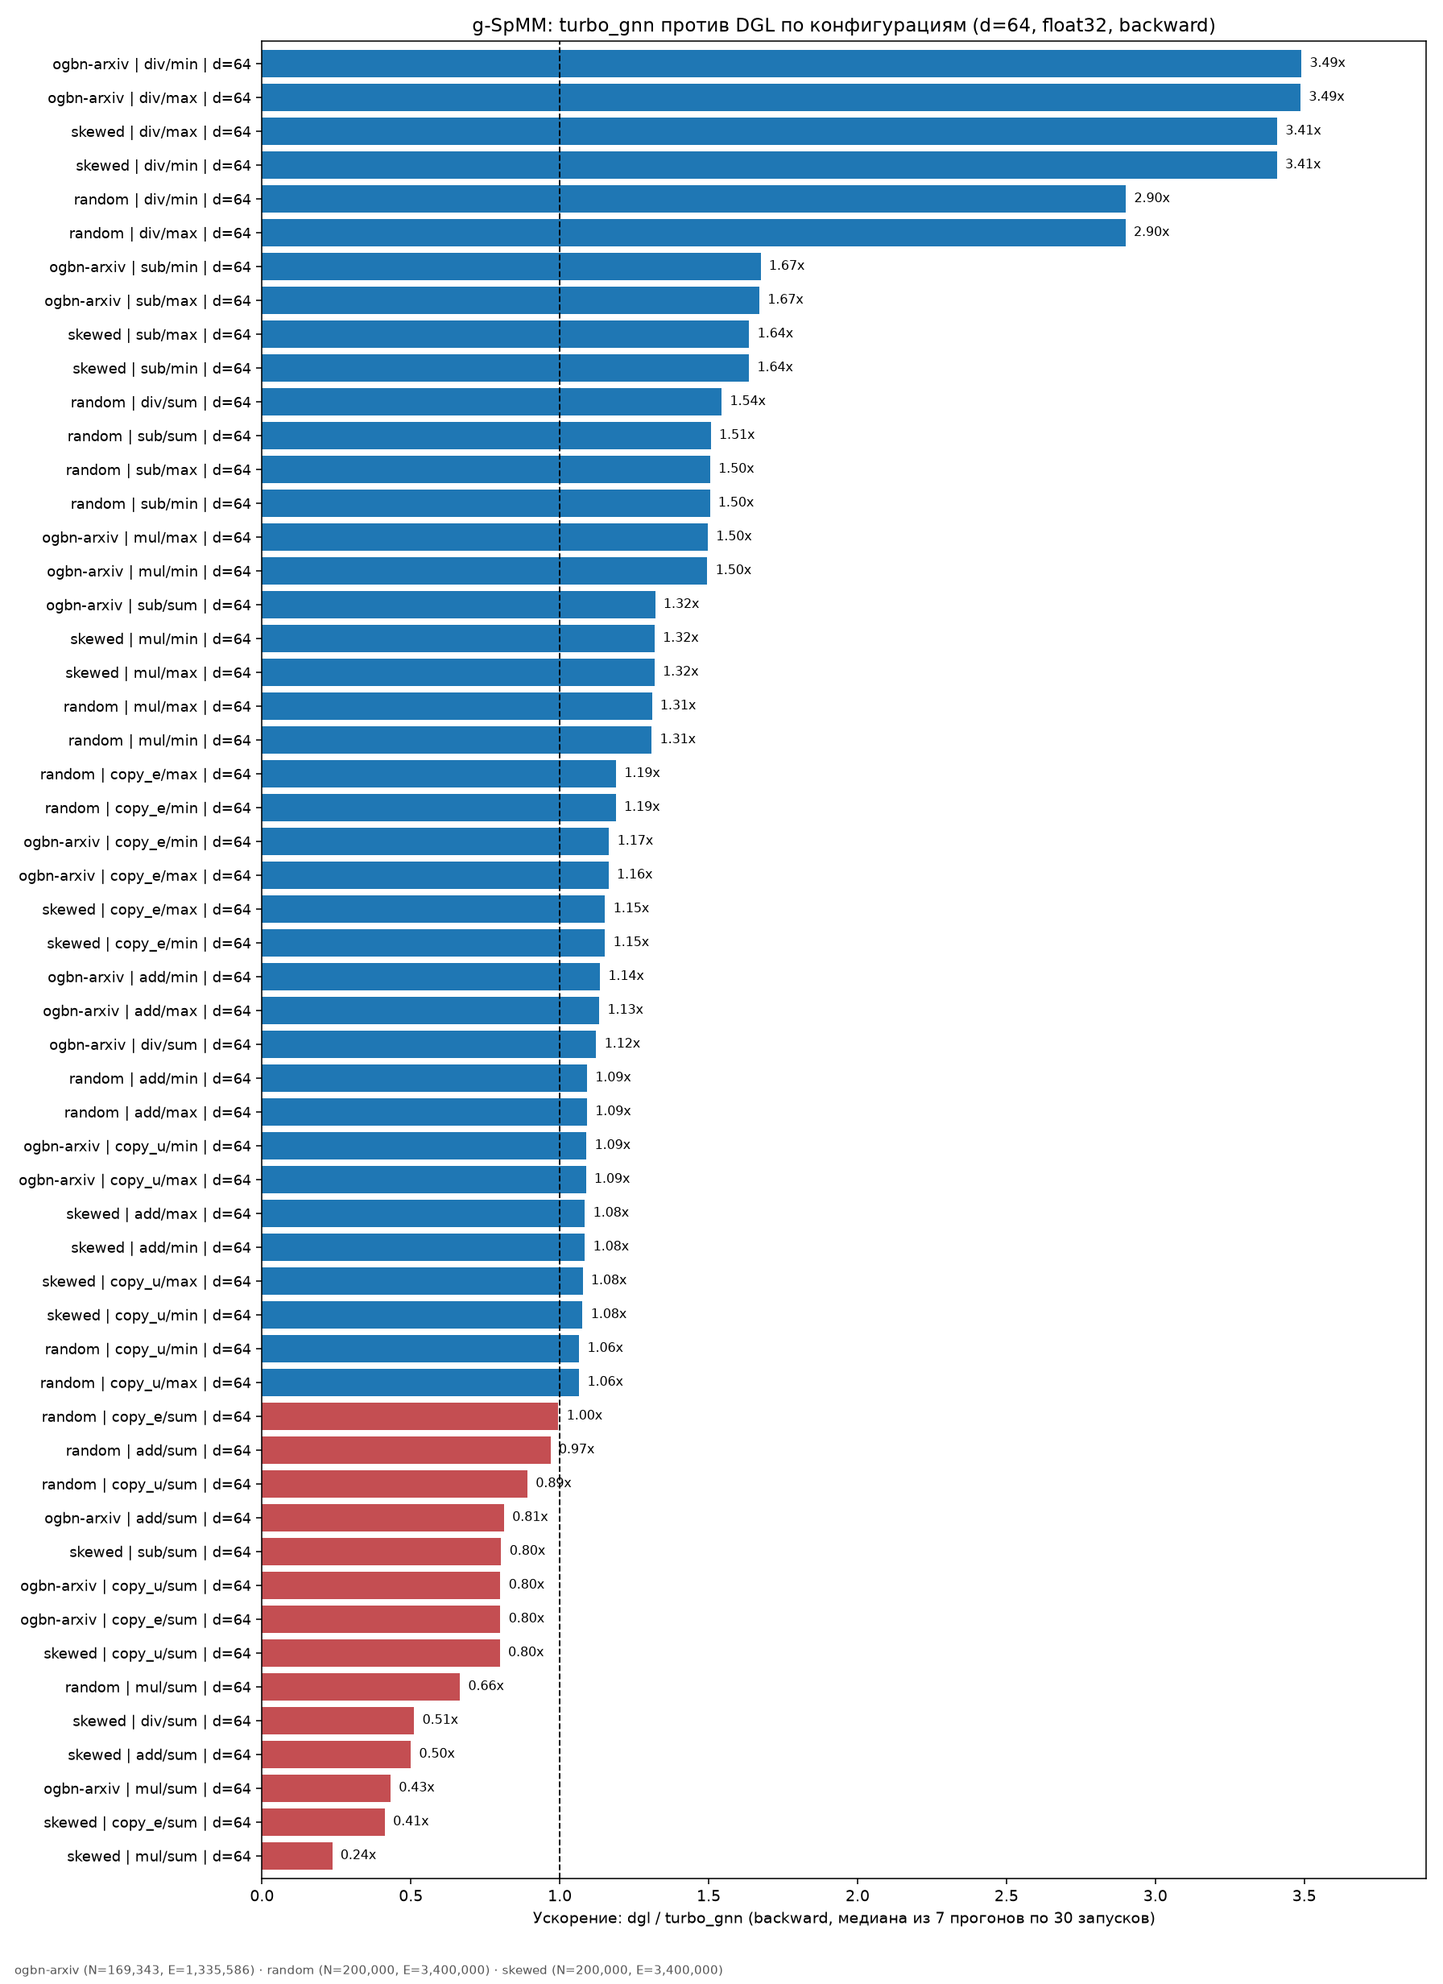
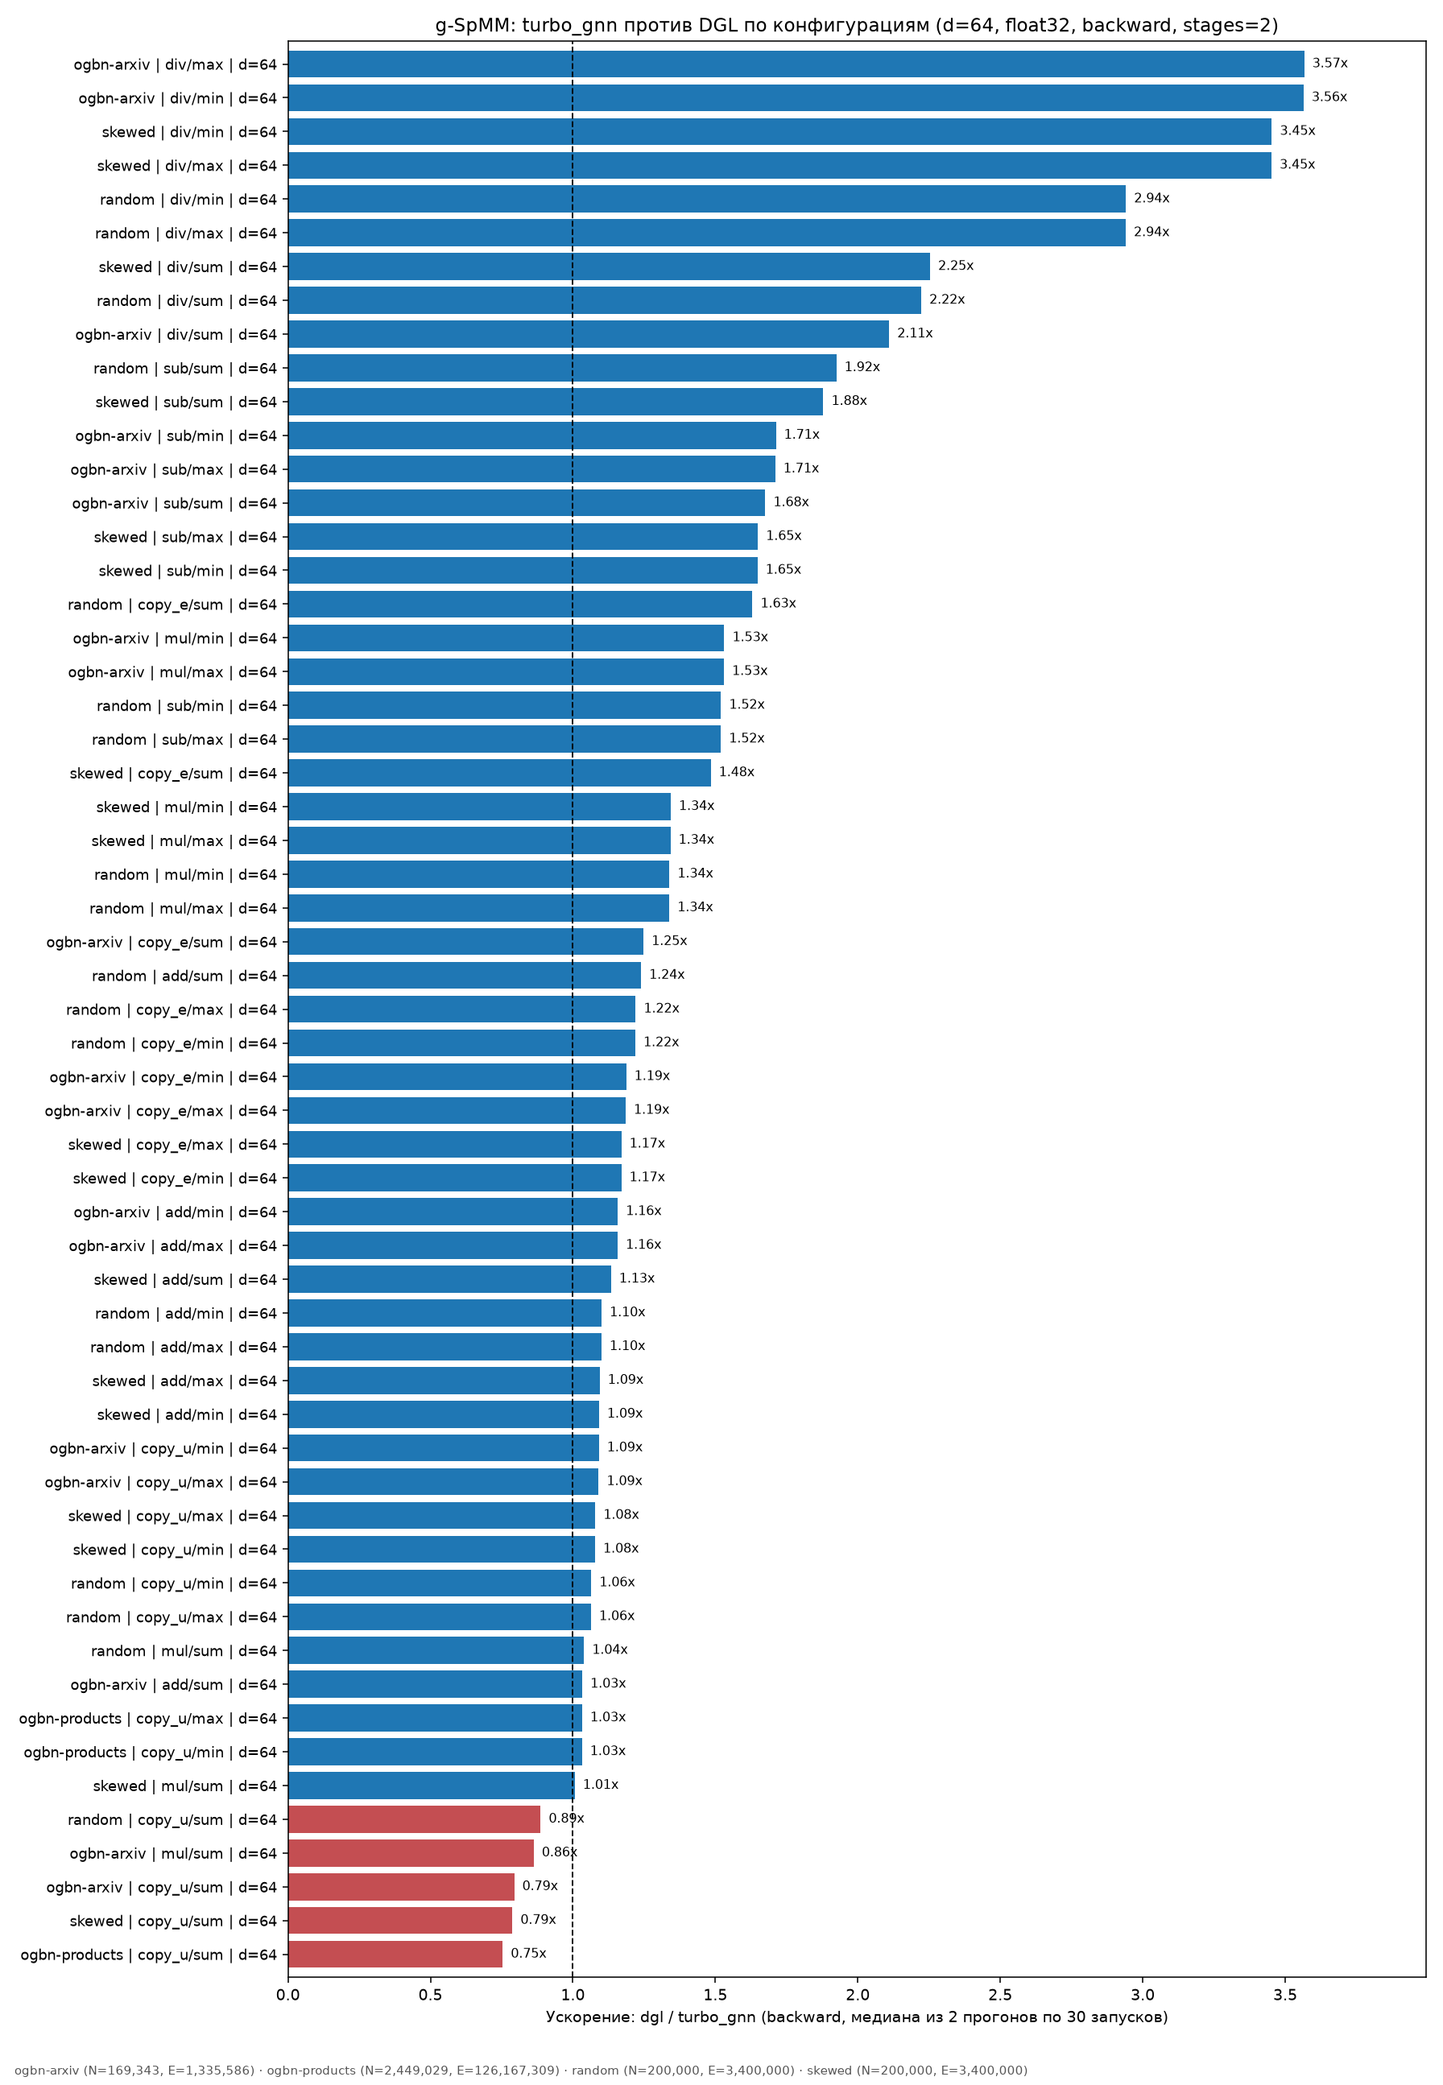
RESULTS: the turbo-vs-DGL charts, rebuilt over every configuration
The charts in this directory measured code whose backward has since been
rewritten, and they could not be rebuilt while DGL was assumed to be
unavailable here.  It is available: DGL 2.4.0+cu121 has a cp312 wheel, and
run.sh already took the DGL and turbo interpreters separately, so DGL runs
under its own python 3.12 while turbo stays on the 3.14 venv whose partial
extension is the one that builds for this T4.

So all 24 are redrawn from one sweep -- {float32, float16} x stages
{0,1,2,4} x {forward, backward, forward+backward} -- and each now covers
all four graphs at 57 cells, ogbn-products included: 61.8M raw edges,
126.2M with both directions and self-loops, copy_u only at d=64, since an
[E, d] operand at that size does not fit in 15 GB.  Twelve keep their old
names so the links in the text still resolve; stages 1 and 4 are new, and
the five that had no counterpart (the fp32_forward_stagesN set and
fp32_forward_4graphs) are gone -- every chart is a four-graph chart now,
and the stage sweep is a row of the matrix.

The headline: fp16 backward was 0.68x with 30 of 36 cells losing to DGL,
and is 1.30x with 15 of 57.  fp32 backward 1.31x -> 1.47x, fp16 forward
2.00x -> 2.52x.  Those two runs differ in more than the code (two graphs
vs four, seven repeats vs two, no device warm-up vs one), so the clean
code-to-code comparison stays the turbo-vs-turbo sweep.

Pipelining loses in all eight configurations by geomean, and the count of
[…]

Changed region(s): [[0.0, 0.0, 0.9375, 1.0], [0.875, 0.9375, 0.9062, 0.9688]]

diff --git a/dev/scanhex12/RESULTS.md b/dev/scanhex12/RESULTS.md
@@ -1,73 +1,94 @@
 # g-SpMM: turbo_gnn против DGL
 
-Tesla T4, d=64, медиана из 7 прогонов по 30 запусков, CUDA events на обеих сторонах.
-`ogbn-arxiv` (N=169 343, E=1 335 586) и `random` (N=200 000, E=3 400 000).
-turbo — через `turbo_gnn.gspmm`, DGL — через `dgl.ops.*`, обе стороны на побитово
-одинаковых данных. Прогон и методика: [gspmm_vs_dgl/](gspmm_vs_dgl/).
+Tesla T4, d=64, медиана из 2 прогонов по 30 запусков, CUDA events на обеих
+сторонах, побитово одинаковые данные. Четыре графа в каждой картинке, 57 клеток:
 
-В скобках — сколько клеток из 18×графов оказались быстрее у DGL.
-
-## fp32, без пайплайнинга
-
-| kind | geomean | медиана | мин | проигр. | картинка | данные |
-|---|---|---|---|---|---|---|
-| forward | **1.89x** | 1.92x | 1.10x | 0/36 | [fp32_forward.png](fp32_forward.png) | [arxiv](gspmm_vs_dgl/results/results_ogbn-arxiv_float32_bwd.json) · [random](gspmm_vs_dgl/results/results_random_float32_bwd.json) |
-| **backward** | **1.31x** | 1.18x | 0.44x | 5/36 | [fp32_backward.png](fp32_backward.png) | те же |
-| fwd+bwd | 1.52x | 1.48x | 0.64x | 2/36 | [fp32_fwd_bwd.png](fp32_fwd_bwd.png) | те же |
-
-## fp16, без пайплайнинга
-
-| kind | geomean | медиана | мин | проигр. | картинка | данные |
-|---|---|---|---|---|---|---|
-| forward | **2.00x** | 2.07x | 1.12x | 0/36 | [fp16_forward.png](fp16_forward.png) | [arxiv](gspmm_vs_dgl/results/results_ogbn-arxiv_float16_bwd.json) · [random](gspmm_vs_dgl/results/results_random_float16_bwd.json) |
-| **backward** | **0.68x** | 0.68x | 0.32x | 30/36 | [fp16_backward.png](fp16_backward.png) | те же |
-| fwd+bwd | 0.99x | 0.98x | 0.48x | 21/36 | [fp16_fwd_bwd.png](fp16_fwd_bwd.png) | те же |
-
-## fp32, pipeline_stages=2
-
-Три графа вместо двух — `skewed` попал бонусом от прогона, который ушёл не на те
-графы. Со stages=0 напрямую не сравнивается.
-
-| kind | geomean | медиана | мин | проигр. | картинка | данные |
-|---|---|---|---|---|---|---|
-| forward | 1.97x | 2.09x | 0.71x | 5/54 | [fp32_stages2_forward.png](fp32_stages2_forward.png) | [arxiv](gspmm_vs_dgl/results/results_ogbn-arxiv_float32_bwd_st2.json) · [random](gspmm_vs_dgl/results/results_random_float32_bwd_st2.json) · [skewed](gspmm_vs_dgl/results/results_skewed_float32_bwd_st2.json) |
-| backward | 1.18x | 1.14x | 0.24x | 14/54 | [fp32_stages2_backward.png](fp32_stages2_backward.png) | те же |
-| fwd+bwd | 1.53x | 1.55x | 0.54x | 8/54 | [fp32_stages2_fwd_bwd.png](fp32_stages2_fwd_bwd.png) | те же |
-
-## fp16, pipeline_stages=2
-
-| kind | geomean | медиана | мин | проигр. | картинка | данные |
-|---|---|---|---|---|---|---|
-| forward | **1.57x** | 1.72x | 0.67x | 5/36 | [fp16_stages2_forward.png](fp16_stages2_forward.png) | [arxiv](gspmm_vs_dgl/results/results_ogbn-arxiv_float16_bwd_st2.json) · [random](gspmm_vs_dgl/results/results_random_float16_bwd_st2.json) |
-| backward | 0.65x | 0.67x | 0.31x | 32/36 | [fp16_stages2_backward.png](fp16_stages2_backward.png) | те же |
-| fwd+bwd | 0.91x | 0.93x | 0.45x | 24/36 | [fp16_stages2_fwd_bwd.png](fp16_stages2_fwd_bwd.png) | те же |
-
-## Отдельный свип по пайплайнингу
-
-fp32 forward, три графа, только turbo меняется. Данные:
-[stages{0,1,2,4}.json](gspmm_vs_dgl/results/stages/) ·
-[pipeline_stages.json](gspmm_vs_dgl/results/pipeline_stages.json).
-
-| stages | geomean | проигр. | картинка |
+| граф | N | E | макс. входная степень |
 |---|---|---|---|
-| 0 | **2.15x** | 1/54 | [fp32_forward_stages0.png](fp32_forward_stages0.png) |
-| 1 | 2.06x | 1/54 | [fp32_forward_stages1.png](fp32_forward_stages1.png) |
-| 2 | 1.96x | 5/54 | [fp32_forward_stages2.png](fp32_forward_stages2.png) |
-| 4 | 1.96x | 4/54 | [fp32_forward_stages4.png](fp32_forward_stages4.png) |
+| `random` | 200 000 | 3 400 000 | 40 |
+| `skewed` | 200 000 | 3 400 000 | 66 865 |
+| `ogbn-arxiv` | 169 343 | 1 335 586 | 13 156 |
+| `ogbn-products` | 2 449 029 | 126 167 309 | — |
 
-По 162 клеткам (три ширины) **ни одна** не стала быстрее с пайплайном:
-stages=1 → 0.958x, stages=2 → 0.913x, stages=4 → 0.907x относительно stages=0,
-худшая 0.669x. То же записано в докстринге `ReductionAggrKernel` по H100.
+`ogbn-products` идёт только с `copy_u` и только при d=64: операнд `[E, d]` при
+126M рёбер не влезает в 15 GB. Прогон и методика: [gspmm_vs_dgl/](gspmm_vs_dgl/),
+всё считает `run_matrix.sh` одним проходом по матрице конфигураций.
 
-## fp32 forward на четырёх графах
+В колонке «проигр.» — сколько клеток из 57 оказались быстрее у DGL.
 
-[fp32_forward_4graphs.png](fp32_forward_4graphs.png) — самый первый прогон,
-добавляет `skewed` и `ogbn-products` (126M рёбер, только `copy_u`): geomean 2.15x,
-проигрывает только `copy_u/sum`. По 171 клетке всех ширин — geomean 2.14x.
+## fp32
+
+| stages | kind | geomean | медиана | мин | макс | проигр. | картинка |
+|---|---|---|---|---|---|---|---|
+| 0 | forward | **2.24x** | 2.31x | 0.96x | 6.48x | 1/57 | [fp32_forward.png](fp32_forward.png) |
+| 0 | **backward** | **1.47x** | 1.25x | 0.95x | 3.56x | 2/57 | [fp32_backward.png](fp32_backward.png) |
+| 0 | fwd+bwd | 1.82x | 1.75x | 0.93x | 3.67x | 3/57 | [fp32_fwd_bwd.png](fp32_fwd_bwd.png) |
+| 1 | forward | 2.14x | 2.17x | 0.85x | 6.47x | 5/57 | [fp32_stages1_forward.png](fp32_stages1_forward.png) |
+| 1 | backward | 1.43x | 1.23x | 0.85x | 3.56x | 4/57 | [fp32_stages1_backward.png](fp32_stages1_backward.png) |
+| 1 | fwd+bwd | 1.76x | 1.72x | 0.83x | 3.67x | 5/57 | [fp32_stages1_fwd_bwd.png](fp32_stages1_fwd_bwd.png) |
+| 2 | forward | 2.02x | 1.94x | 0.75x | 6.47x | 8/57 | [fp32_stages2_forward.png](fp32_stages2_forward.png) |
+| 2 | backward | 1.40x | 1.22x | 0.75x | 3.57x | 5/57 | [fp32_stages2_backward.png](fp32_stages2_backward.png) |
+| 2 | fwd+bwd | 1.70x | 1.66x | 0.73x | 3.67x | 7/57 | [fp32_stages2_fwd_bwd.png](fp32_stages2_fwd_bwd.png) |
+| 4 | forward | 2.02x | 1.92x | 0.83x | 6.48x | 8/57 | [fp32_stages4_forward.png](fp32_stages4_forward.png) |
+| 4 | backward | 1.41x | 1.22x | 0.83x | 3.57x | 5/57 | [fp32_stages4_backward.png](fp32_stages4_backward.png) |
+| 4 | fwd+bwd | 1.71x | 1.64x | 0.81x | 3.67x | 7/57 | [fp32_stages4_fwd_bwd.png](fp32_stages4_fwd_bwd.png) |
+
+## fp16
+
+| stages | kind | geomean | медиана | мин | макс | проигр. | картинка |
+|---|---|---|---|---|---|---|---|
+| 0 | forward | **2.52x** | 2.48x | 0.96x | 9.68x | 2/57 | [fp16_forward.png](fp16_forward.png) |
+| 0 | **backward** | **1.30x** | 1.31x | 0.67x | 2.64x | 15/57 | [fp16_backward.png](fp16_backward.png) |
+| 0 | fwd+bwd | 1.87x | 1.97x | 0.88x | 5.55x | 4/57 | [fp16_fwd_bwd.png](fp16_fwd_bwd.png) |
+| 1 | forward | 2.42x | 2.34x | 0.91x | 9.73x | 4/57 | [fp16_stages1_forward.png](fp16_stages1_forward.png) |
+| 1 | backward | 1.27x | 1.31x | 0.67x | 2.64x | 19/57 | [fp16_stages1_backward.png](fp16_stages1_backward.png) |
+| 1 | fwd+bwd | 1.82x | 1.92x | 0.87x | 5.53x | 6/57 | [fp16_stages1_fwd_bwd.png](fp16_stages1_fwd_bwd.png) |
+| 2 | forward | 2.06x | 2.01x | 0.66x | 9.67x | 8/57 | [fp16_stages2_forward.png](fp16_stages2_forward.png) |
+| 2 | backward | 1.20x | 1.21x | 0.63x | 2.64x | 21/57 | [fp16_stages2_backward.png](fp16_stages2_backward.png) |
+| 2 | fwd+bwd | 1.66x | 1.72x | 0.64x | 5.54x | 8/57 | [fp16_stages2_fwd_bwd.png](fp16_stages2_fwd_bwd.png) |
+| 4 | forward | 2.24x | 2.18x | 0.81x | 9.66x | 6/57 | [fp16_stages4_forward.png](fp16_stages4_forward.png) |
+| 4 | backward | 1.24x | 1.28x | 0.67x | 2.64x | 20/57 | [fp16_stages4_backward.png](fp16_stages4_backward.png) |
+| 4 | fwd+bwd | 1.74x | 1.85x | 0.79x | 5.52x | 7/57 | [fp16_stages4_fwd_bwd.png](fp16_stages4_fwd_bwd.png) |
+
+## Что из этого следует
+
+**fp16 backward больше не проигрывает.** Было 0.68x при 30 проигранных клетках
+из 36, стало 1.30x при 15 из 57. Это то, что чинилось; чем именно — ниже, в
+разделе про сделанное. Прежние числа считались на двух графах, семи прогонах и
+без прогрева устройства, так что сравнивать их с этими напрямую нельзя: чистое
+сравнение кода с кодом — в разделе «Держится ли выигрыш по всем конфигурациям».
+
+**Пайплайнинг проигрывает во всех восьми конфигурациях.** По geomean stages=0
+лучше любого другого значения и в fp32, и в fp16, и в обе стороны; число
+проигранных DGL клеток растёт со стадиями монотонно (fp16 backward: 15 → 19 →
+21 → 20 из 57). Отдельный свип turbo-против-turbo в разделе про сделанное
+доводит это до 192 сравнений с тем же выводом.
+
+**Где мы всё ещё проигрываем.** Минимум по fp16 backward — 0.67x, и это
+`copy_u/min` и `copy_u/max` на всех графах сразу. Причина не в балансировке: у
+min/max градиент по вершинам оставлен в fp32 с кастом на выходе, потому что его
+скаттер накапливает, а у `copy_u` нет рёберного градиента, на котором это можно
+отыграть. Рядом `add/min` и `add/max` на 0.94–0.98x — тот же механизм.
+
+**На `ogbn-products` — паритет, 0.93–1.03x.** При 126M рёбер операция чисто
+bandwidth-bound: обе реализации упираются в пропускную способность памяти, и
+выигрывать там нечем.
+
+**Расхождения с DGL в градиентах min/max — не ошибка.** В fp16 их 15–19 на
+конфигурацию, в fp32 одно-два. Все до единого — только `grad_lhs`/`grad_rhs` у
+min/max, ни одного в forward и ни одного у sum. Субградиент min/max при равных
+сообщениях не единственный: DGL и turbo выбирают разное побеждающее ребро. В
+fp32 ничьих почти нет, в fp16 значения квантованы и ничьи повсюду. Проверено на
+`603239d`, то есть до всех оптимизаций: там ровно те же 19 расхождений в тех же
+клетках с теми же величинами.
 
 ---
 
 # Выводы
+
+Это диагностика состояния **до** правок, с числами того прогона (два графа, семь
+прогонов, без прогрева) — она и определила, что чинить. Текущие числа в таблицах
+выше, что из них сделано — в разделе «Что сделано по этому списку».
 
 **1. Forward стабильно 1.9–2.0x в обоих dtype, ни одного проигрыша.**
 
